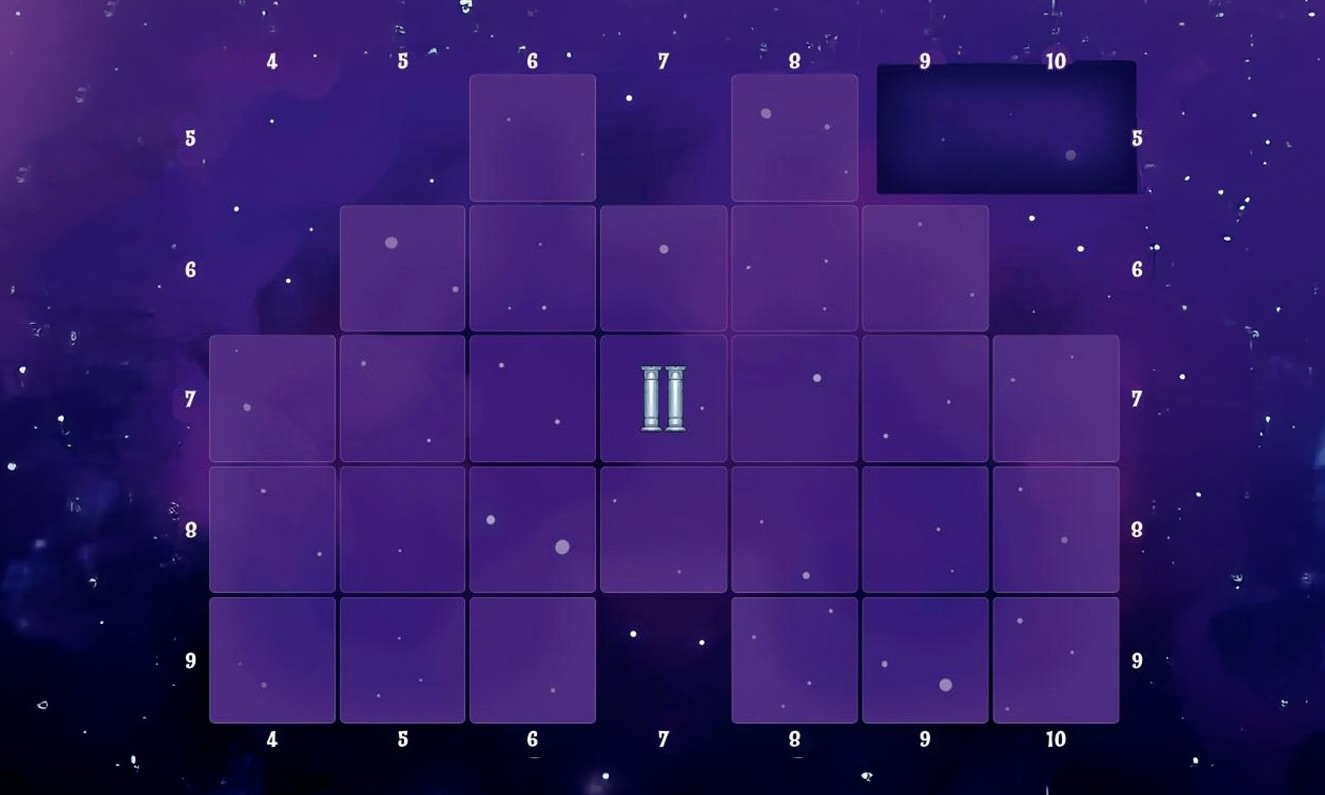
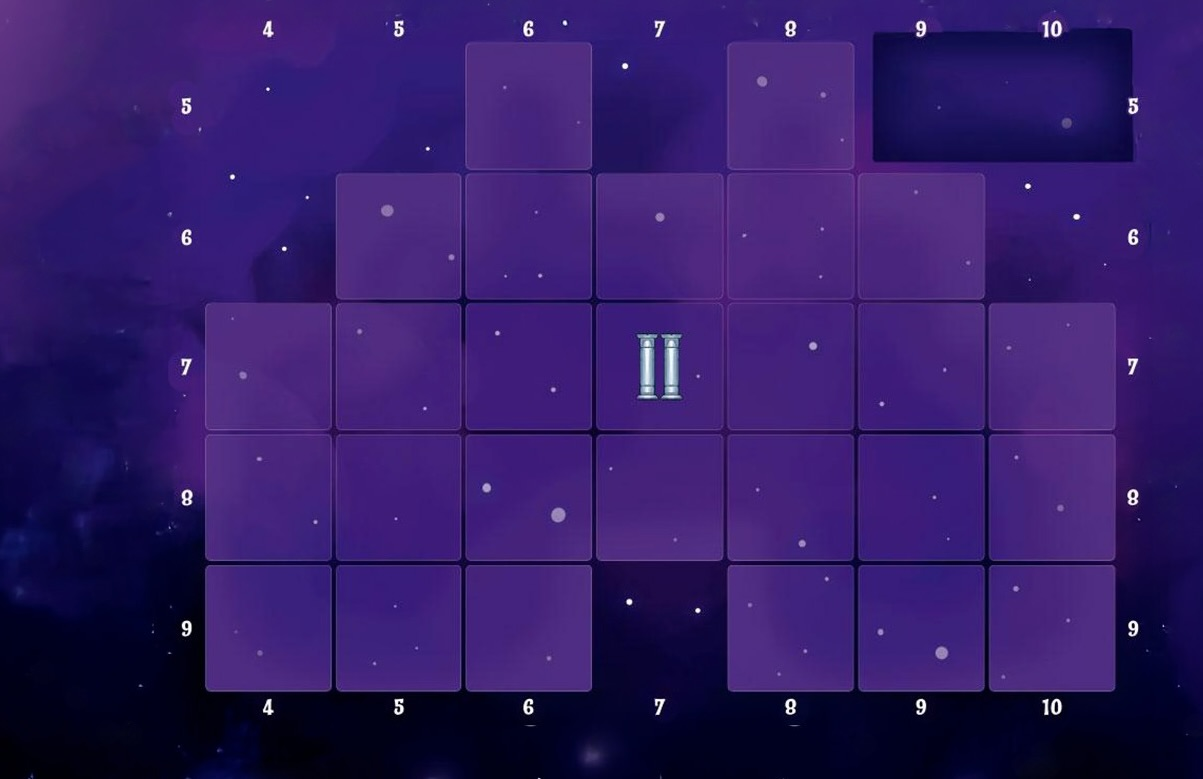
updates

diff --git a/GalaxyTrucker/src/main/java/it/polimi/ingsw/view/graphic/GUI.java b/GalaxyTrucker/src/main/java/it/polimi/ingsw/view/graphic/GUI.java
@@ -1577,16 +1577,16 @@ public class GUI extends UI {
         };
 
         GridPane grid = new GridPane();
-        grid.setHgap(2.5);
-        grid.setVgap(2.5);
+        grid.setHgap(2);
+        grid.setVgap(2);
         grid.setAlignment(Pos.TOP_LEFT);
-        grid.setTranslateX(33);
-        grid.setTranslateY(26);
+        grid.setTranslateX(145);
+        grid.setTranslateY(30);
 
         for (int row = 5; row < 10; row++) {
             for (int col = 4; col < 11; col++) {
                 StackPane cell = new StackPane();
-                cell.setPrefSize(105, 97);
+                cell.setPrefSize(90, 90);
 
                 if (validCells[row][col]) {
                     cell.setStyle("-fx-border-color: white; -fx-border-radius: 3px; -fx-background-radius: 3px;");
@@ -1594,9 +1594,9 @@ public class GUI extends UI {
                     Component c = layout[row][col];
                     if (c != null ) {
                         ImageView imageView = new ImageView(c.getFrontImage());
-                        imageView.setFitWidth(105);
-                        imageView.setFitHeight(97);
-                        Rectangle clip = new Rectangle(105, 97);
+                        imageView.setFitWidth(90);
+                        imageView.setFitHeight(89);
+                        Rectangle clip = new Rectangle(89, 89);
                         clip.setArcWidth(6);
                         clip.setArcHeight(6);
                         imageView.setClip(clip);

diff --git a/GalaxyTrucker/src/main/java/it/polimi/ingsw/view/graphic/GUIApplication.java b/GalaxyTrucker/src/main/java/it/polimi/ingsw/view/graphic/GUIApplication.java
@@ -21,14 +21,14 @@ public class GUIApplication extends Application {
     private SpaceShip spaceship;
     private ArrayList<Card> stack;
     private Map<String, Integer> mockTrack;
-    private Component[] kept;
+    private ArrayList<Component> kept;
 
 
     @Override
     public void start(Stage primaryStage) throws InvalidCoordinates {
         availableComponents = new AvailableComponents();
         Trucker trucker = new Trucker("luca", PlayerColors.BLUE);
-        kept = new Component[2];
+        kept = new ArrayList<>();
         stack = new ArrayList<>();
         Card card1 = new OpenSpace(false, 1, "/it/polimi/ingsw/model/cards/GT-cards_I_IT_018.jpg", "");
         Card card2 = new Epidemic(false, 2, "/it/polimi/ingsw/model/cards/GT-cards_II_IT_015.jpg", "");
@@ -39,8 +39,8 @@ public class GUIApplication extends Application {
         spaceship = new SpaceShip(PlayerColors.RED);
 //        Cabin cabin = new Cabin(3, 3, 3, 3, "Main Cabin", "/it/polimi/ingsw/model/components/tiles/GT-new_tiles_16_for web52.jpg", PlayerColors.RED, true);
 //        trucker.getSpaceShip().addComponent(cabin, 7,7);
-        kept[0] = availableComponents.getComponents().get(15);
-        kept[1] = availableComponents.getComponents().get(130);
+        kept.add(availableComponents.getComponents().get(15));
+        kept.add(availableComponents.getComponents().get(130));
 
         mockTrack = new HashMap<>();
         mockTrack.put("RED", 0);
